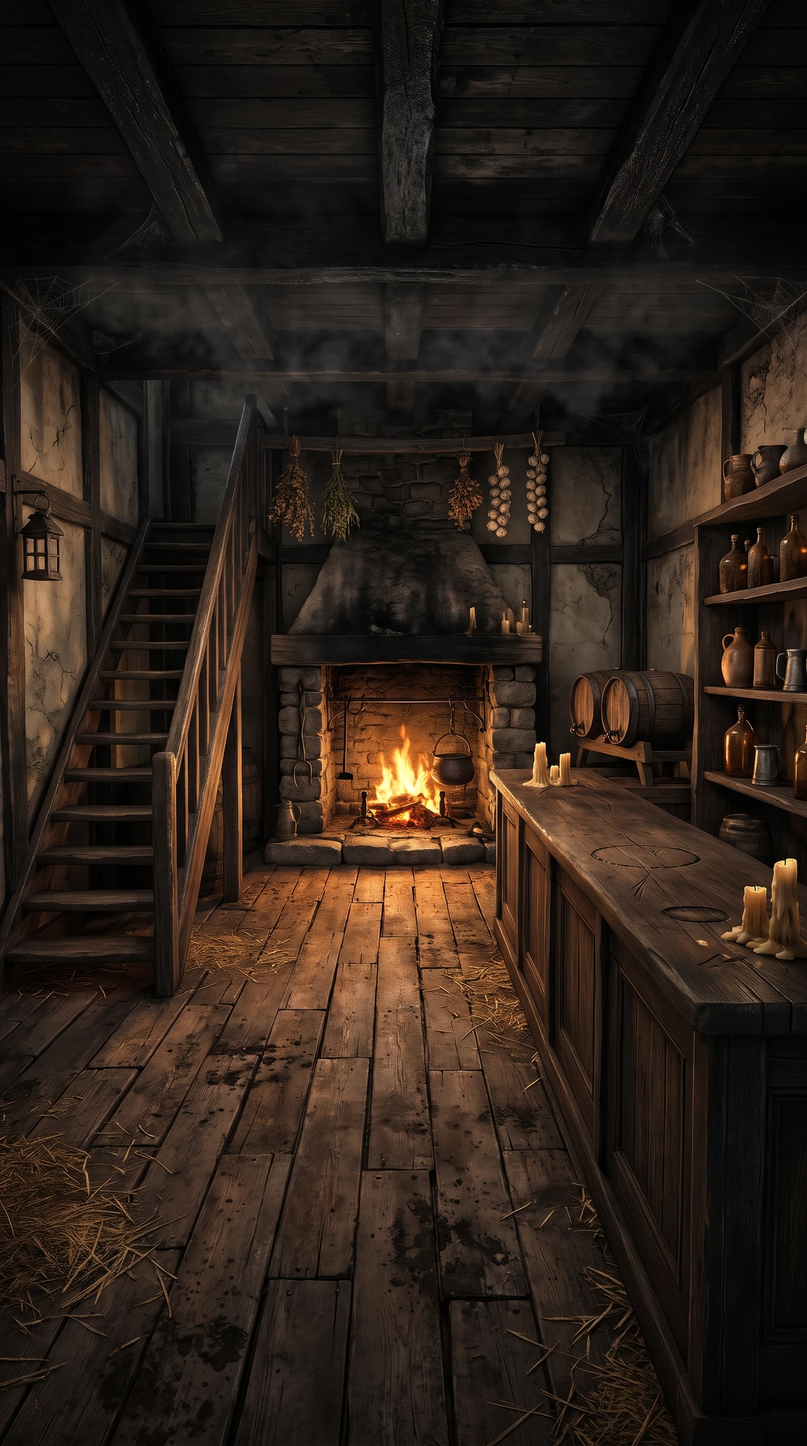
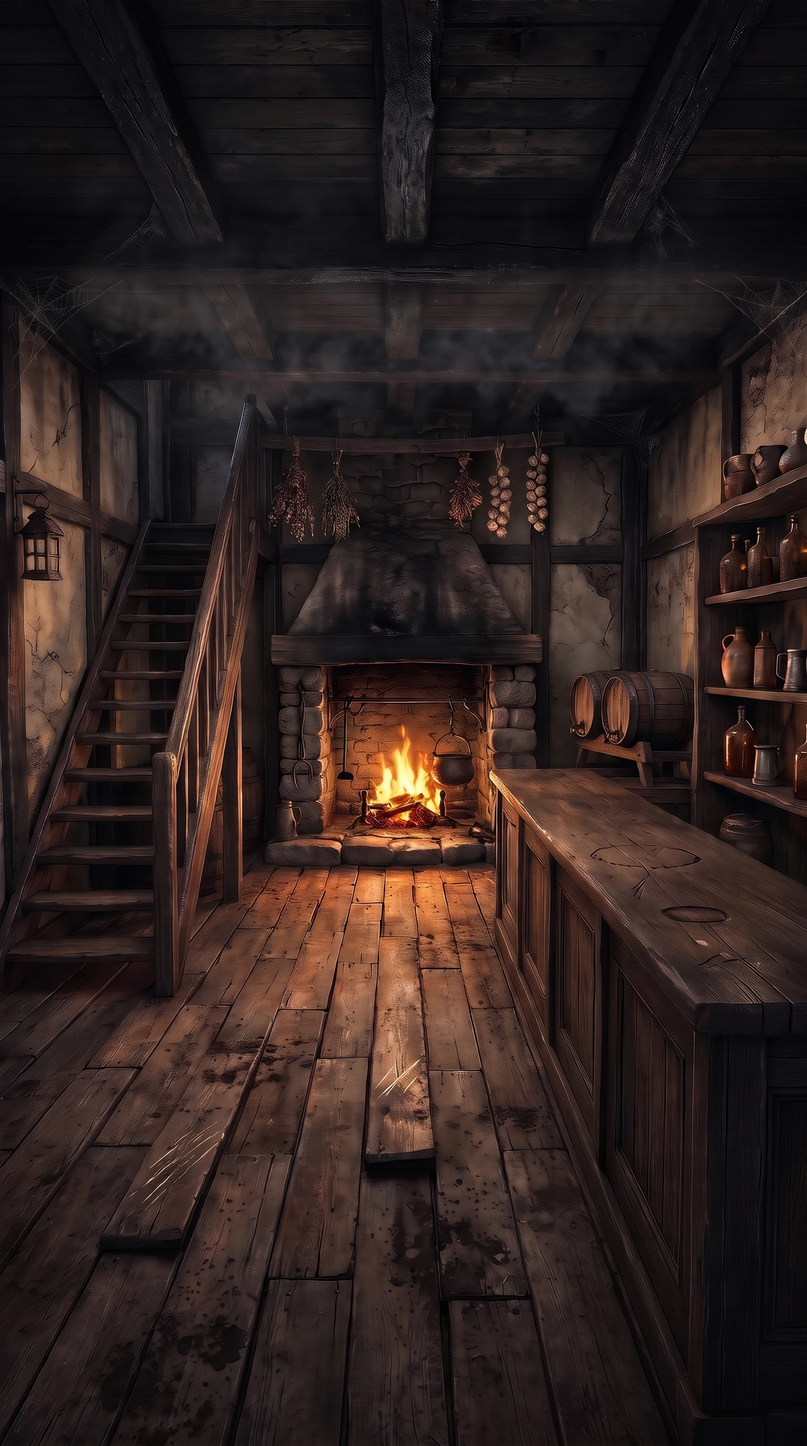
Tristram's inn has an upstairs: its staircase, already painted, is an object of the inn, whose "Monter" leads to the new scene etage, under the eaves. Like the inn, the upstairs has no opening ("opening": false), and its back exit, "descendre", leads down to the inn. The inn's two other objects, the

diff --git a/content/games/index.ts b/content/games/index.ts
@@ -6,6 +6,9 @@ import { ITEMS as tristramItems } from "./tristram/items/index.ts";
 import tristramSceneAubergeAspects from "./tristram/scenes/auberge/characters.json";
 import tristramSceneAubergeObjects from "./tristram/scenes/auberge/objects.json";
 import tristramSceneAubergeScene from "./tristram/scenes/auberge/scene.json";
+import tristramSceneEtageAspects from "./tristram/scenes/etage/characters.json";
+import tristramSceneEtageObjects from "./tristram/scenes/etage/objects.json";
+import tristramSceneEtageScene from "./tristram/scenes/etage/scene.json";
 import tristramSceneTristramAspects from "./tristram/scenes/tristram/characters.json";
 import tristramSceneTristramObjects from "./tristram/scenes/tristram/objects.json";
 import tristramSceneTristramScene from "./tristram/scenes/tristram/scene.json";
@@ -19,6 +22,11 @@ export const games = {
         scene: tristramSceneAubergeScene,
         objects: tristramSceneAubergeObjects,
         aspects: tristramSceneAubergeAspects,
+      },
+      etage: {
+        scene: tristramSceneEtageScene,
+        objects: tristramSceneEtageObjects,
+        aspects: tristramSceneEtageAspects,
       },
       tristram: {
         scene: tristramSceneTristramScene,

diff --git a/apps/web/images.ts b/apps/web/images.ts
@@ -4,6 +4,7 @@ import tristramItemCouteau from "@esquisse/content/games/tristram/items/couteau.
 import tristramItemLanterne from "@esquisse/content/games/tristram/items/lanterne.webp";
 import tristramItemPelle from "@esquisse/content/games/tristram/items/pelle.webp";
 import tristramSceneAubergeFond from "@esquisse/content/games/tristram/scenes/auberge/fond.webp";
+import tristramSceneEtageFond from "@esquisse/content/games/tristram/scenes/etage/fond.webp";
 import tristramSceneTristramCiel from "@esquisse/content/games/tristram/scenes/tristram/ciel.webp";
 import tristramSceneTristramCielDevant from "@esquisse/content/games/tristram/scenes/tristram/ciel-devant.webp";
 import tristramSceneTristramFeu from "@esquisse/content/games/tristram/scenes/tristram/feu.webp";
@@ -30,6 +31,11 @@ export const gameImages = {
     scenes: {
       auberge: {
         background: tristramSceneAubergeFond,
+        characters: {},
+        effects: {},
+      },
+      etage: {
+        background: tristramSceneEtageFond,
         characters: {},
         effects: {},
       },

diff --git a/apps/mobile/src/images.ts b/apps/mobile/src/images.ts
@@ -22,6 +22,11 @@ export const gameImages = {
         characters: {},
         effects: {},
       },
+      etage: {
+        background: require("@esquisse/content/games/tristram/scenes/etage/fond.webp"),
+        characters: {},
+        effects: {},
+      },
       tristram: {
         background: require("@esquisse/content/games/tristram/scenes/tristram/fond.webp"),
         characters: {},
